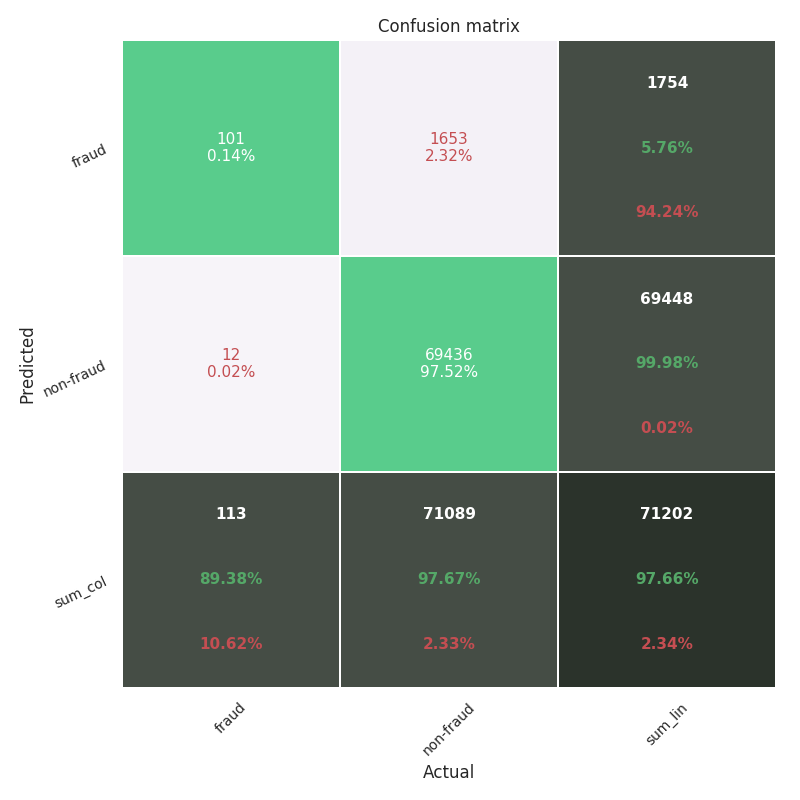
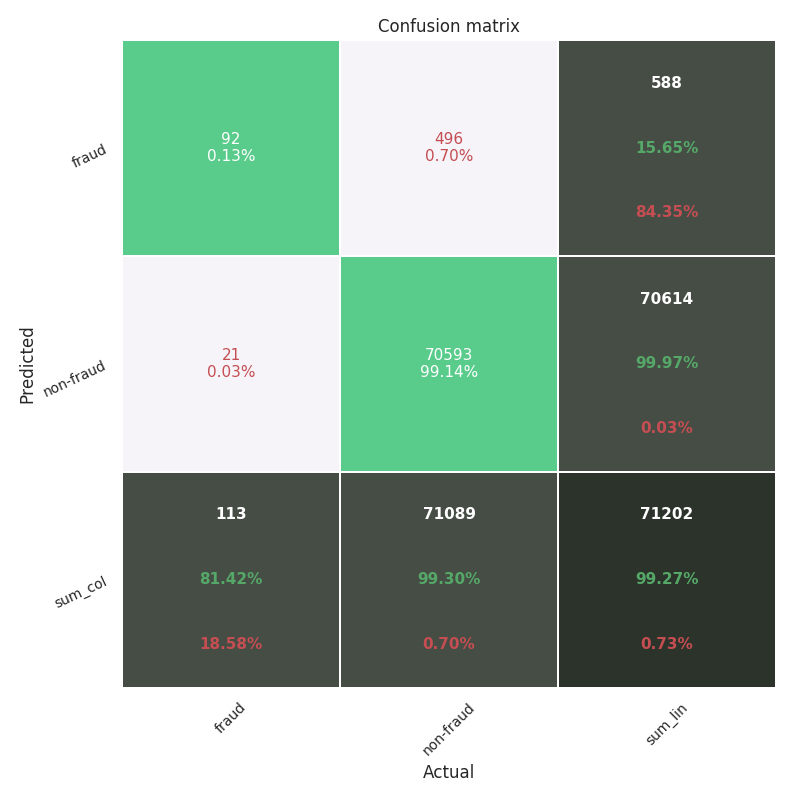
g

diff --git a/learn.py b/learn.py
@@ -248,9 +248,9 @@ if __name__ == '__main__':
                        learning_rate='constant',
                        learning_rate_init=0.001,
                        power_t=0.5,
-                       max_iter=50,
+                       max_iter=15,
                        shuffle=True,
-                       random_state=None,
+                       random_state=13,
                        tol=0.0001,
                        verbose=False,
                        warm_start=False,
